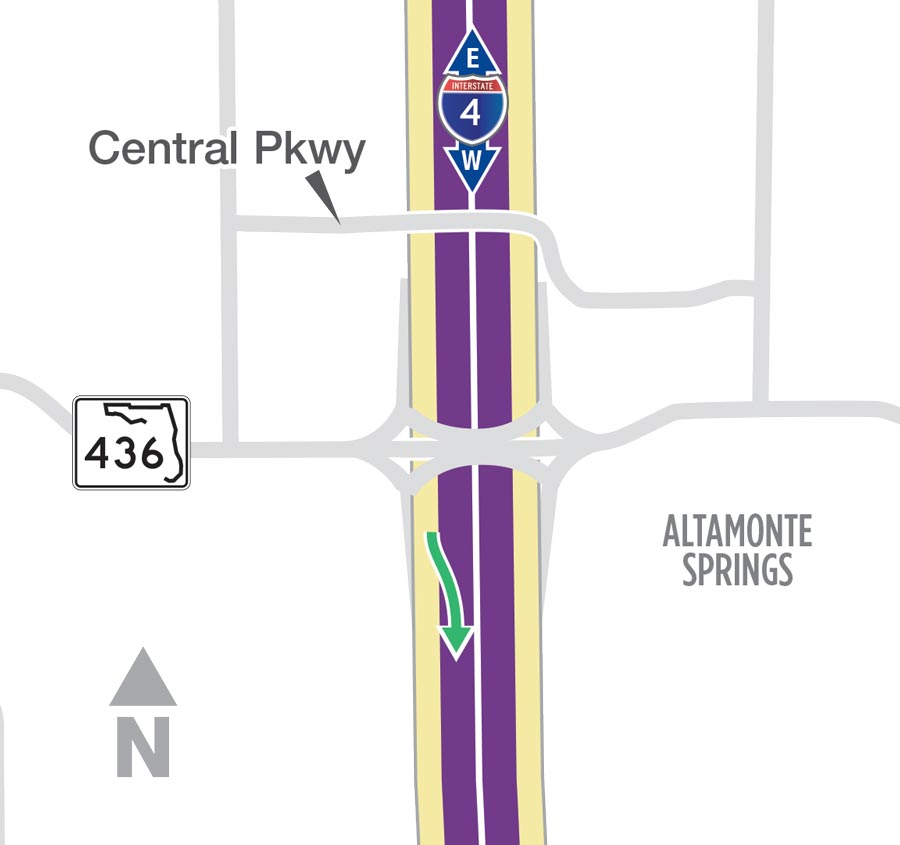
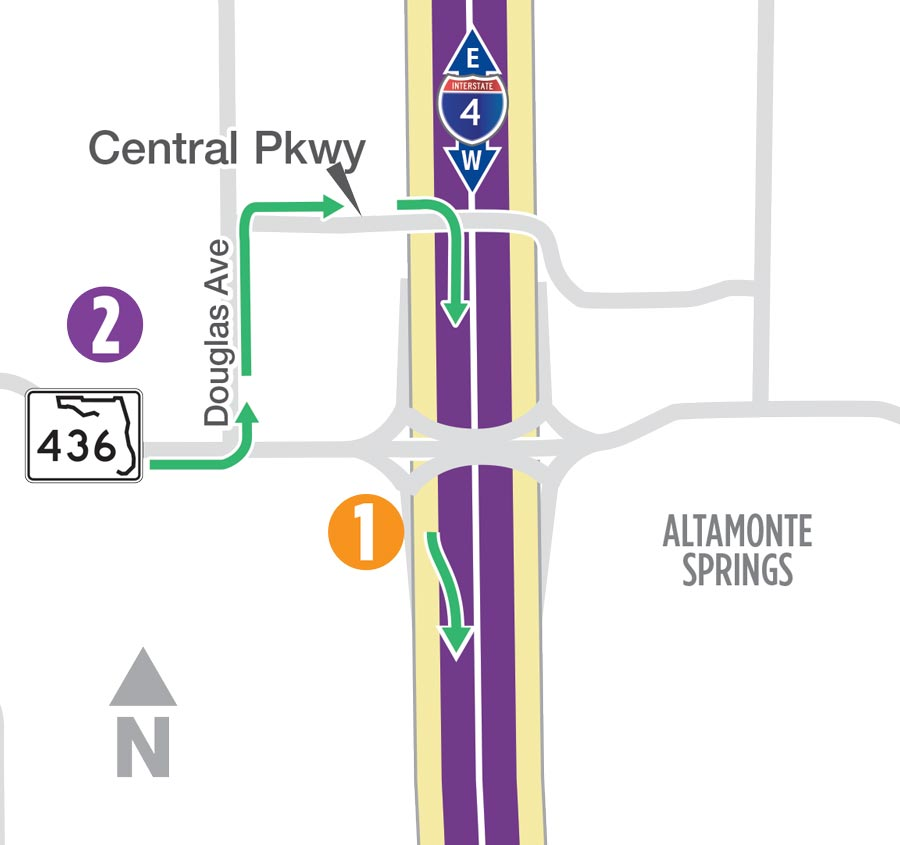
updated map images and added new ones

diff --git a/src/data.js b/src/data.js
@@ -70,7 +70,7 @@ export const eastWestBounds = [
       entryWB: {
         images: [
           {
-            imgIn: ['4ba220a7-c1c5-4f9b-bef2-73c093cfd1ec.png'],
+            imgIn: ['Express-Lanes-434-B-ON-1.jpg'],
             imgOut: ['4ba220a7-c1c5-4f9b-bef2-73c093cfd1ec.png'],
           },
         ],
@@ -253,7 +253,7 @@ export const eastWestBounds = [
         images: [
           {
             imgIn: ['4ba220a7-c1c5-4f9b-bef2-73c093cfd1ec.png'],
-            imgOut: ['4ba220a7-c1c5-4f9b-bef2-73c093cfd1ec.png'],
+            imgOut: ['Express-Lanes-LeeRd-W-OFF-1.jpg'],
           },
         ],
         entry: [
